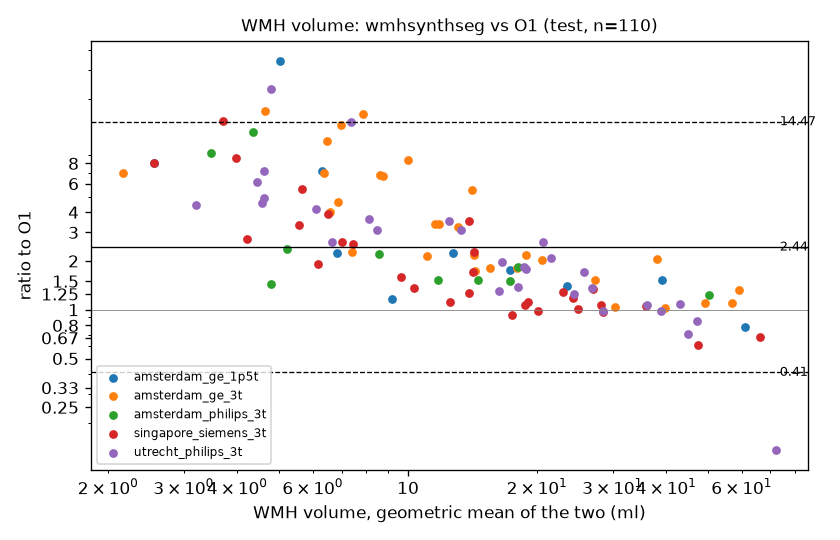
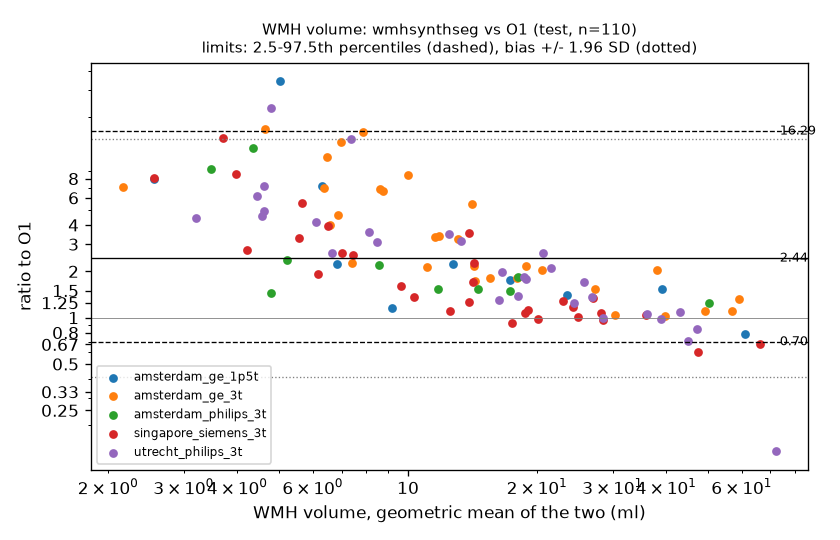
Use empirical Bland-Altman limits of agreement with bootstrap CIs
The log ratios are skewed (M1: skewness -1.44, Shapiro p < 0.001), so the
parametric limits misplaced them. Empirical 2.5-97.5th percentiles with
stratified bootstrap CIs; parametric limits kept for comparison (J-066).

diff --git a/src/wmh_multisite/biomarkers/agreement.py b/src/wmh_multisite/biomarkers/agreement.py
@@ -10,7 +10,10 @@ scanner?": a site-dependent bias would create a site effect that does not come f
         |   per subject: d = ln(rater / O1)        (volumes span 0.8 to 195 ml: errors grow with the
         |                                           volume, Spearman 0.71 in ml, -0.31 on the log scale)
         v
-    1. Bland-Altman: bias = mean(d), limits of agreement = bias +/- 1.96 SD(d), back-transformed to ratios
+    1. Bland-Altman: bias = mean(d); limits of agreement = 2.5th and 97.5th percentiles of d (empirical,
+       J-066: d is skewed, so bias +/- 1.96 SD misplaces them), with a bootstrap CI stratified by scanner;
+       the parametric limits (bias +/- 1.96 SD), skewness and Shapiro-Wilk p are kept for comparison;
+       everything back-transformed to ratios
     2. ICC(A,1), absolute agreement, on ln(value), with a bootstrap CI stratified by scanner
     3. bias per scanner (bootstrap CI, Wilcoxon against 0, Holm) + Kruskal-Wallis across scanners:
        does the bias depend on the site?
@@ -75,9 +78,24 @@ def icc_a1(x: np.ndarray) -> float:
 
 
 def bland_altman(d: np.ndarray) -> dict[str, float]:
-    """Bias and 95 % limits of agreement of the differences ``d``."""
+    """Bias and 95 % limits of agreement of the differences ``d``.
+
+    ``loa_low`` / ``loa_high``: empirical 2.5th and 97.5th percentiles, the non-parametric limits of
+    Bland and Altman (1999), valid whatever the shape of ``d``. ``loa_param_*``: bias +/- 1.96 SD, which
+    assume a normal, hence symmetric, ``d``; kept to show how far that assumption is from the data.
+    """
     bias, sd = float(d.mean()), float(d.std(ddof=1))
-    return {"bias": bias, "sd": sd, "loa_low": bias - 1.96 * sd, "loa_high": bias + 1.96 * sd}
+    low, high = np.percentile(d, [2.5, 97.5])
+    return {
+        "bias": bias,
+        "sd": sd,
+        "loa_low": float(low),
+        "loa_high": float(high),
+        "loa_param_low": bias - 1.96 * sd,
+        "loa_param_high": bias + 1.96 * sd,
+        "skewness": float(stats.skew(d)),
+        "p_shapiro": float(stats.shapiro(d).pvalue) if len(d) >= 3 else float("nan"),
+    }
 
 
 def transform(values: pd.Series, kind: str) -> pd.Series:
@@ -119,7 +137,12 @@ def agreement(
     d = tr - tref
     ba = bland_altman(d)
     pair = np.column_stack([tr, tref])
-    boot = [icc_a1(pair[idx]) for idx in stratified_indices(q.scanner.to_numpy(), n_boot, rng)]
+    boot, boot_low, boot_high = [], [], []
+    for idx in stratified_indices(q.scanner.to_numpy(), n_boot, rng):
+        boot.append(icc_a1(pair[idx]))
+        low, high = np.percentile(d[idx], [2.5, 97.5])
+        boot_low.append(low)
+        boot_high.append(high)
     alpha = (1 - level) / 2
     by_site = [d[(q.scanner == s).to_numpy()] for s in sorted(q.scanner.unique())]
     back = np.exp if kind == "log" else (lambda v: v)  # log1p: differences stay on the log scale
@@ -129,7 +152,15 @@ def agreement(
         "scale": "ratio" if kind == "log" else "difference of ln(x + 1)",
         "bias": float(back(ba["bias"])),
         "loa_low": float(back(ba["loa_low"])),
+        "loa_low_ci_low": float(back(np.quantile(boot_low, alpha))),
+        "loa_low_ci_high": float(back(np.quantile(boot_low, 1 - alpha))),
         "loa_high": float(back(ba["loa_high"])),
+        "loa_high_ci_low": float(back(np.quantile(boot_high, alpha))),
+        "loa_high_ci_high": float(back(np.quantile(boot_high, 1 - alpha))),
+        "loa_param_low": float(back(ba["loa_param_low"])),
+        "loa_param_high": float(back(ba["loa_param_high"])),
+        "skewness": ba["skewness"],
+        "p_shapiro": ba["p_shapiro"],
         "mean_diff_raw": float((q.rater - q.ref).mean()),
         "icc_a1": icc_a1(pair),
         "icc_ci_low": float(np.quantile(boot, alpha)),
@@ -183,6 +214,8 @@ def bland_altman_figure(p: pd.DataFrame, title: str, path) -> None:
     for v, style in [(ba["bias"], "-"), (ba["loa_low"], "--"), (ba["loa_high"], "--")]:
         ax.axhline(np.exp(v), color="black", ls=style, lw=0.8)
         ax.text(mean.max(), np.exp(v), f" {np.exp(v):.2f}", va="center", fontsize=8)
+    for v in (ba["loa_param_low"], ba["loa_param_high"]):  # bias +/- 1.96 SD, for comparison
+        ax.axhline(np.exp(v), color="grey", ls=":", lw=0.8)
     ax.axhline(1, color="grey", lw=0.5)
     ax.set_xscale("log")
     ax.set_yscale("log")
@@ -197,7 +230,7 @@ def bland_altman_figure(p: pd.DataFrame, title: str, path) -> None:
     ax.xaxis.set_major_formatter(matplotlib.ticker.FormatStrFormatter("%g"))
     ax.set_xlabel("WMH volume, geometric mean of the two (ml)")
     ax.set_ylabel("ratio to O1")
-    ax.set_title(title, fontsize=10)
+    ax.set_title(f"{title}\nlimits: 2.5-97.5th percentiles (dashed), bias +/- 1.96 SD (dotted)", fontsize=9)
     ax.legend(fontsize=7, loc="best")
     fig.tight_layout()
     fig.savefig(path, dpi=120)

diff --git a/tests/test_agreement.py b/tests/test_agreement.py
@@ -25,9 +25,21 @@ def test_icc_a1_hand_computation():
 def test_bland_altman():
     ba = bland_altman(np.array([0.0, 0.2, 0.4]))
     assert ba["bias"] == pytest.approx(0.2) and ba["sd"] == pytest.approx(0.2)
-    assert ba["loa_low"] == pytest.approx(0.2 - 1.96 * 0.2) and ba["loa_high"] == pytest.approx(
-        0.2 + 1.96 * 0.2
-    )
+    assert ba["loa_param_low"] == pytest.approx(0.2 - 1.96 * 0.2)
+    assert ba["loa_param_high"] == pytest.approx(0.2 + 1.96 * 0.2)
+    # empirical limits = 2.5th and 97.5th percentiles (linear interpolation)
+    assert ba["loa_low"] == pytest.approx(0.01) and ba["loa_high"] == pytest.approx(0.39)
+
+
+def test_empirical_limits_follow_a_skewed_distribution():
+    # mostly small errors and a tail of large underestimations (as M1): the parametric limits are
+    # pushed symmetrically outwards, the empirical ones stay where the data are
+    rng = np.random.default_rng(0)
+    d = np.concatenate([rng.normal(0.0, 0.05, 950), rng.normal(-1.0, 0.1, 50)])
+    ba = bland_altman(d)
+    assert ba["skewness"] < -2
+    assert ba["loa_high"] < ba["loa_param_high"]  # no long upper tail in the data
+    assert ba["loa_low"] < ba["loa_param_low"]  # the lower tail is longer than 1.96 SD
 
 
 def test_stratified_indices_keep_strata_sizes():

diff --git a/README.md b/README.md
@@ -12,7 +12,7 @@ Ce projet s'articule autour de quatre questions :
 > (1) repérer les images problématiques, (2) segmenter les lésions de façon fiable, y compris sur un scanner jamais vu,
 > (3) en tirer des biomarqueurs comparables d'un site à l'autre, et (4) retirer l'empreinte du scanner sans effacer la biologie ?
 
-Chaque choix est justifié, avec ses alternatives et ses preuves, dans le journal de décisions [`justification.md`](justification.md) (J-001 à J-065). L'avancement est suivi dans [`ROADMAP.md`](ROADMAP.md).
+Chaque choix est justifié, avec ses alternatives et ses preuves, dans le journal de décisions [`justification.md`](justification.md) (J-001 à J-066). L'avancement est suivi dans [`ROADMAP.md`](ROADMAP.md).
 
 ---
 
@@ -127,7 +127,7 @@ Avec quelques variantes :
 - **Dice** : recouvrement des voxels
 - **HD95** : distance (mm) entre les contours au 95e centile, sensible aux erreurs éloignées 
 - **AVD** : erreur relative sur le volume total 
-- **rappel lésionnel** et **F1 lésionnel** : détection lésion par lésion (composantes 27-connexes) où chaque lésion compte pour 1 quelle que soit sa taille.
+- **rappel lésionnel** et **F1 lésionnel** : détection lésion par lésion (composantes 26-connexes) où chaque lésion compte pour 1 quelle que soit sa taille.
 
 **Méthodes statistiques.**
 - **Incertitude** : intervalle de confiance à 95 % de chaque moyenne par **bootstrap percentile stratifié par scanner** (2 000 tirages avec remise, stratifiés par scanner pour conserver la composition du test).
@@ -146,28 +146,27 @@ Avec quelques variantes :
 
 ### 5. Biomarqueurs
 
-**But.** L'évaluation (section 4) juge la segmentation voxel par voxel. Une étude clinique, elle, utilise **un chiffre par patient** (« 12 ml de lésions, surtout périventriculaires »), qui alimentera ensuite un modèle pronostique. La question devient : **ce chiffre est-il juste, et est-il aussi juste sur tous les scanners ?** Un biais qui dépend du site créerait un faux effet de site dans une étude multicentrique.
+L'évaluation (section 4) juge la segmentation voxel par voxel mais une étude clinique utilise **un chiffre par patient** i.e. un biomarqueurs. Il faut alors également analyser statistiquement la fiabilité de ces valeurs. 
 
-**Biomarqueurs calculés** pour chaque sujet et chaque source de segmentation (O1, M1, M2, M3 ; O3 et O4 sur l'entraînement), après retrait des zones « autre pathologie » :
-- **volume de HSB** (ml), avec le volume exact du voxel, qui varie de 1,75 à 4,72 mm³ selon le scanner ; et en **% du volume intracrânien** (ICV, tiré de la segmentation de WMH-SynthSeg), qui ne diminue pas avec l'atrophie ;
-- **volumes périventriculaire et profond** : un voxel de HSB est périventriculaire s'il est à 10 mm ou moins des ventricules latéraux (segmentés par WMH-SynthSeg), distances en millimètres réels ;
-- **nombre de lésions** (composantes connexes 3D, comme le script officiel), dont celles d'au moins 10 mm³ pour que le compte soit comparable entre résolutions ;
-- **cartes de fréquence lésionnelle** dans l'espace MNI, par site et par source.
+On calcule les biomarqueurs suivant pour chaque sujet et chaque source de segmentation (O1, M1, M2, M3 ; O3 et O4 sur l'entraînement) après retrait des zones « autre pathologie » (label 2) :
+- **volume de HSB** : en utilisant le volume exacte d'un voxel qui varie de 1,75 à 4,72 mm³ selon le scanner
+- **% du volume intracrânien** :  ICV tiré de la segmentation de WMH-SynthSeg 
+- **volumes périventriculaire et profond** : un voxel de HSB est périventriculaire s'il est à 10 mm ou moins des ventricules latéraux (segmentés par WMH-SynthSeg)
+- **nombre de lésions** : composantes 26-connexes (comme le script officiel) d'au moins 10 mm³ pour que le compte soit comparable entre résolutions
+- **cartes de fréquence lésionnelle** : dans l'espace MNI par site et par source.
 
-Les volumes obtenus sont identiques à ceux de l'évaluation officielle à 5e-5 ml près. Valeurs de référence (O1, 170 sujets) : volume médian 11,2 ml (0,8 à 195 ml), de 0,44 % de l'ICV (Amsterdam GE 3T) à 1,18 % (Singapour), 80 à 87 % de lésions périventriculaires selon le site ([tableau A10](#a10)).
-
-**Protocole d'accord.** Chaque source est comparée à O1 : M1, M3 et M2 sur les 110 cas de test ; les experts O3 et O4 sur les 60 cas d'entraînement, qui donnent la **référence humaine**. Pour chaque sujet, on calcule **d = ln(source / O1)**. Le logarithme transforme les erreurs en rapports (« 10 % de trop »), car l'erreur absolue grandit avec le volume (corrélation de Spearman de 0,71 entre l'erreur en ml et le volume, −0,31 sur l'échelle logarithmique).
+**Protocole d'accord.** Chaque source est comparée à O1 : M1, M2 et M3 sur les 110 cas de test, les experts O3 et O4 sur les 60 cas d'entraînement, qui donnent la **référence humaine**. Pour chaque sujet, on calcule **d = ln(source / O1)**. 
 
 **Méthodes statistiques.**
-- **Bland-Altman**, la méthode de référence pour comparer deux mesures d'une même grandeur : le **biais** (moyenne des d, ramenée en rapport) dit si la source mesure trop ou trop peu en moyenne ; les **limites d'accord** (biais ± 1,96 écart type) encadrent l'erreur sur 95 % des patients pris un par un.
+- **Bland-Altman**, la méthode de référence pour comparer deux mesures d'une même grandeur : le **biais** (moyenne des d, ramenée en rapport) dit si la source mesure trop ou trop peu en moyenne ; les **limites d'accord** encadrent l'erreur sur 95 % des patients pris un par un. La formule classique (biais ± 1,96 écart type) suppose des d de loi normale, donc symétriques ; ce n'est pas le cas ici (pour M1, asymétrie −1,4, test de Shapiro-Wilk p < 0,001). On utilise donc les **limites empiriques** (2,5e et 97,5e centiles des d), avec leur intervalle de confiance par bootstrap stratifié par scanner.
 - **ICC d'accord absolu** (ICC(A,1), McGraw et Wong) sur le logarithme des volumes, avec un IC bootstrap stratifié par scanner : la part de la variabilité due aux vraies différences entre patients plutôt qu'aux erreurs de mesure (1 = accord parfait). Contrairement à une corrélation, il pénalise un écart systématique (une méthode qui doublerait tous les volumes aurait une corrélation de 1).
 - **Biais par site** : biais de chaque scanner avec son IC bootstrap et un test de Wilcoxon contre 0, corrigés par Holm sur les 116 tests ; puis un **test de Kruskal-Wallis** pour savoir si le biais diffère d'un scanner à l'autre.
 - **Cartes MNI** : chaque masque est transporté dans l'espace commun (FLAIR → T1 → MNI), puis on calcule la proportion de sujets ayant une lésion en chaque voxel. L'accord avec O1 est la **corrélation de Pearson voxel à voxel** entre les cartes (même motif spatial = 1), complétée par des cartes de différence qui montrent où se situent les écarts.
 
 **Résultats clés.**
-- **M1 mesure le volume aussi bien qu'un second expert** : rapport moyen 0,98, limites d'accord [0,62 ; 1,55], ICC 0,982, contre 0,97 [0,60 ; 1,57] et 0,981 pour O3, et 0,91 [0,55 ; 1,51] et 0,977 pour O4 ([tableau A11](#a11)). Les limites d'accord restent larges même entre experts : pour un patient donné, un second expert peut donner de 0,6 à 1,6 fois le volume de O1. C'est la marge réaliste de mesure d'un volume de HSB.
-- **M3 est juste en moyenne mais imprécis par patient** (1,18 [0,33 ; 4,14], ICC 0,81) ; **M2 surestime d'un facteur 2,4** (ICC 0,37) et n'est pas utilisable comme biomarqueur sur ce protocole ([tableau A11](#a11)).
-- **Les lésions profondes sont moins bien mesurées** que les périventriculaires : M1 les sous-estime de 13 % (0,87 [0,37 ; 2,04], ICC 0,964, contre 1,00 [0,64 ; 1,56] et 0,982). Les experts aussi (0,86 et 0,78) : O1 annote plus de lésions profondes que les autres ([tableau A11](#a11)).
+- **M1 mesure le volume aussi bien qu'un second expert** : rapport moyen 0,98, limites d'accord [0,54 ; 1,31], ICC 0,982, contre 0,97 [0,62 ; 1,47] et 0,981 pour O3, et 0,91 [0,57 ; 1,61] et 0,977 pour O4 ([tableau A11](#a11)). Son erreur est **asymétrique** : il surestime rarement de plus de 30 %, mais sous-estime fortement quelques patients (jusqu'à −46 %), ceux chez qui il manque beaucoup de petites lésions. Les limites restent larges même entre experts : pour un patient donné, un second expert peut donner de 0,6 à 1,6 fois le volume de O1. C'est la marge réaliste de mesure d'un volume de HSB.
+- **M3 est juste en moyenne mais imprécis par patient** (1,18 [0,38 ; 6,14], ICC 0,81) ; **M2 surestime d'un facteur 2,4** (ICC 0,37) et n'est pas utilisable comme biomarqueur sur ce protocole ([tableau A11](#a11)).
+- **Les lésions profondes sont moins bien mesurées** que les périventriculaires : M1 les sous-estime de 13 % (0,87 [0,32 ; 1,40], ICC 0,964, contre 1,00 [0,54 ; 1,32] et 0,982). Les experts aussi (0,86 et 0,78) : O1 annote plus de lésions profondes que les autres ([tableau A11](#a11)).
 - **Nombre de lésions** : M1 en compte environ 18 % de moins que O1 (ICC 0,89), au niveau des experts (0,85 et 0,88) ; M3, qui élimine les petites lésions, est à 0,31 ([tableau A11](#a11)).
 - **Le biais dépend du site pour M1, M3 et les deux experts** (Kruskal-Wallis p < 0,001), mais pas pour M2 (p = 0,10), dont la surestimation est forte mais uniforme. M1 sous-estime d'environ 13 % à Utrecht (0,87 [0,80 ; 0,95]) et surestime d'environ 10 % sur GE 1,5T (1,10 [1,06 ; 1,14]) ; ces écarts ne restent pas significatifs après la correction de Holm (p = 0,08 et 0,27). Les experts ont aussi des biais de site : O4 sous-estime de 20 % à Singapour (p Holm = 0,003) ([tableau A12](#a12)). Une partie du « biais de site » d'une méthode reflète donc le style de la référence sur certains sites, et, sans données démographiques, un biais associé au site peut venir de la population autant que du scanner.
 - **Les lésions sont placées aux bons endroits** : la carte de M1 corrèle à 0,995 avec celle de O1 (0,97 à 0,99 par site), contre 0,90 pour M3 et 0,88 pour M2 (0,67 sur GE 1,5T). Les cartes de différence montrent que l'excès de M2 se concentre dans un liseré le long des ventricules, et que M3 fait des faux positifs sur la ligne médiane ([tableau A13](#a13)).
@@ -234,7 +233,7 @@ notebooks/                  explorations et contrôles visuels (sorties retirée
 containers/, hpc/           Docker, Apptainer, SLURM
 tests/                      155 tests
 results/tables, figures     résultats agrégés (aucune image de patient)
-justification.md            journal des décisions (J-001 à J-065)
+justification.md            journal des décisions (J-001 à J-066)
 ```
 
 ## Limites
@@ -390,17 +389,29 @@ Lecture : le **champ de biais** est détecté (60 % au niveau 2) avant que le Di
 | **Tous** | **11,2** (0,8 à 195) | | | | **1 450** (1 110 à 1 871) |
 
 <a id="a11"></a>
-### A11. Accord des biomarqueurs avec la référence O1 : rapport moyen [limites d'accord à 95 %] (Bland-Altman sur l'échelle logarithmique) et ICC d'accord absolu
+### A11. Accord des biomarqueurs avec la référence O1 : rapport moyen [limites d'accord empiriques à 95 %] (Bland-Altman sur l'échelle logarithmique) et ICC d'accord absolu
 
 | Source (cas) | Volume total | Périventriculaire | Profond | Lésions ≥ 10 mm³ | Biais dépendant du site ? (Kruskal-Wallis, volume total) |
 |---|---|---|---|---|---|
-| **M1 nnU-Net** (test, 110) | **0,98** [0,62-1,55] ; ICC **0,982** [0,975-0,988] | 1,00 [0,64-1,56] ; 0,982 | 0,87 [0,37-2,04] ; 0,964 | 0,82 [0,56-1,21] ; 0,890 | oui (p < 0,001) |
-| M3 seuillage (test, 110) | 1,18 [0,33-4,14] ; 0,814 | 1,21 [0,42-3,52] ; 0,852 | 0,93 [0,05-16,0] ; 0,543 | 0,55 [0,19-1,58] ; 0,305 | oui (p < 0,001) |
-| M2 WMH-SynthSeg (test, 110) | 2,44 [0,41-14,5] ; 0,372 | 2,53 [0,46-14,1] ; 0,349 | 2,23 [0,14-34,6] ; 0,436 | 0,44 [0,21-0,92] ; 0,300 | non (p = 0,10) |
-| Expert O3 (entraînement, 60) | 0,97 [0,60-1,57] ; 0,981 | 0,98 [0,60-1,62] ; 0,980 | 0,86 [0,43-1,73] ; 0,969 | 0,79 [0,51-1,22] ; 0,847 | oui (p < 0,001) |
-| Expert O4 (entraînement, 60) | 0,91 [0,55-1,51] ; 0,977 | 0,94 [0,55-1,61] ; 0,975 | 0,78 [0,39-1,56] ; 0,968 | 0,80 [0,54-1,19] ; 0,877 | oui (p < 0,001) |
+| **M1 nnU-Net** (test, 110) | **0,98** [0,54-1,31] ; ICC **0,982** [0,975-0,988] | 1,00 [0,54-1,32] ; 0,982 | 0,87 [0,32-1,40] ; 0,964 | 0,82 [0,58-1,16] ; 0,890 | oui (p < 0,001) |
+| M3 seuillage (test, 110) | 1,18 [0,38-6,14] ; 0,814 | 1,21 [0,45-4,58] ; 0,852 | 0,93 [0,11-37,2] ; 0,543 | 0,55 [0,25-1,67] ; 0,305 | oui (p < 0,001) |
+| M2 WMH-SynthSeg (test, 110) | 2,44 [0,70-16,3] ; 0,372 | 2,53 [0,77-14,3] ; 0,349 | 2,23 [0,34-61,7] ; 0,436 | 0,44 [0,23-1,12] ; 0,300 | non (p = 0,10) |
+| Expert O3 (entraînement, 60) | 0,97 [0,62-1,47] ; 0,981 | 0,98 [0,61-1,49] ; 0,980 | 0,86 [0,32-1,45] ; 0,969 | 0,79 [0,48-1,14] ; 0,847 | oui (p < 0,001) |
+| Expert O4 (entraînement, 60) | 0,91 [0,57-1,61] ; 0,977 | 0,94 [0,55-1,91] ; 0,975 | 0,78 [0,36-1,08] ; 0,968 | 0,80 [0,51-1,15] ; 0,877 | oui (p < 0,001) |
 
-Rapport < 1 : la source mesure moins que O1. Les sujets sans lésion profonde (ou périventriculaire) sont exclus de ce biomarqueur ; le nombre de lésions est comparé en ln(x + 1).
+Rapport < 1 : la source mesure moins que O1. Limites d'accord : 2,5e et 97,5e centiles des d. Les sujets sans lésion profonde (ou périventriculaire) sont exclus de ce biomarqueur ; le nombre de lésions est comparé en ln(x + 1).
+
+Volume total : précision des limites d'accord (IC 95 % bootstrap stratifié par scanner) et écart à l'hypothèse de normalité de la formule classique.
+
+| Source | Limite basse [IC 95 %] | Limite haute [IC 95 %] | Formule classique (biais ± 1,96 écart type) | Asymétrie des d | Shapiro-Wilk p |
+|---|---|---|---|---|---|
+| **M1 nnU-Net** | 0,54 [0,45-0,65] | 1,31 [1,22-1,60] | [0,62 ; 1,55] | **−1,44** | < 0,001 |
+| M3 seuillage | 0,38 [0,29-0,49] | 6,14 [3,38-7,38] | [0,33 ; 4,14] | +0,65 | 0,005 |
+| M2 WMH-SynthSeg | 0,70 [0,40-0,97] | 16,3 [11,5-25,9] | [0,41 ; 14,5] | +0,50 | 0,001 |
+| Expert O3 | 0,62 [0,41-0,72] | 1,47 [1,28-2,01] | [0,60 ; 1,57] | −0,35 | 0,07 |
+| Expert O4 | 0,57 [0,41-0,70] | 1,61 [1,21-2,23] | [0,55 ; 1,51] | +0,36 | 0,004 |
+
+Pour M1, la formule classique placerait la limite haute à 1,55 alors qu'aucun patient ou presque ne dépasse 1,31 : les quelques fortes sous-estimations allongent l'écart type, que la formule répartit à tort des deux côtés.
 
 ![Bland-Altman de M1 sur le test](results/figures/bland_altman_test_resencm.png)
 

diff --git a/justification.md b/justification.md
@@ -785,6 +785,16 @@ Un seul triplet (t, e, m) pour tous les scanners, choisi par recherche sur grill
 **Constat (rédaction du README).** Les effectifs de J-051 (136 utilisables, 30 à vérifier, 4 à exclure) ne correspondent plus à `results/tables/qc_flags.csv` : les indicateurs de 4.1 ont été recalculés le 2026-10-06 avec la substance blanche **privée des HSB et d'une marge de 2 mm** autour d'elles (`qc.wmh_margin_mm`, le SNR dépendant sinon de la charge lésionnelle ; la référence « J-059 » du code et du config date d'avant l'attribution de ce numéro à l'harmonisation), sans mise à jour du journal.
 **Chiffres en vigueur (170 sujets).** **143 utilisables, 20 à vérifier, 7 à exclure** (Utrecht 41/5/4, Singapour 42/7/1, Amsterdam GE 3T 45/5/0, Amsterdam Philips 3T 7/2/1, Amsterdam GE 1,5T 8/1/1). À exclure : sub-003, sub-004, sub-009, sub-044 (Utrecht), sub-068 (Singapour), sub-151 (GE 1,5T), sub-160 (Philips). Motifs principaux : champ de biais de la FLAIR (9), SNR de la FLAIR (7), FBER (4). Validation inchangée sur le fond : Dice de M1 0,817 pour les 20 sujets de test signalés contre 0,799 (Mann-Whitney p = 0,54 ; Spearman score / Dice −0,19). Les 10 sujets des artefacts simulés (4.3) et les 10 de la robustesse (J-058), choisis avant ce recalcul, restent tous « utilisables ».
 **Précision sur J-051.** La phrase « sur les images **brutes** (N4 masquerait le défaut de biais) » décrit la première version. Le code actuel (`qc/iqm.py`) suit la convention de MRIQC : bruit et contraste (SNR, SNR de Dietrich, CNR, CJV, EFC, FBER) sur l'image **corrigée par N4** (brute / champ N4, puis x 1000 / médiane de la SB), biais (`inu_range`) mesuré sur le **champ N4** ; seuls les masques de tête et d'air sont définis sur l'image brute.
+
+---
+
+## J-066 — Limites d'accord de Bland-Altman : empiriques plutôt que paramétriques (7.4)
+2026-10-08 · Correction
+
+**Constat (question de l'utilisateur à la rédaction du README).** Les limites d'accord étaient calculées par la formule classique, biais ± 1,96 écart type des d = ln(source / O1), qui suppose des d de loi normale, donc symétriques. Vérification : ce n'est pas le cas. Pour M1, asymétrie −1,44 et Shapiro-Wilk p < 0,001 (M3 +0,65, p = 0,005 ; M2 +0,50, p = 0,001 ; O4 +0,36, p = 0,004 ; seul O3 est compatible avec la normalité, p = 0,07). M1 a une queue de fortes sous-estimations : la formule allonge l'écart type et le répartit à tort des deux côtés.
+**Décision.** `biomarkers/agreement.py` : limites d'accord **empiriques** (2,5e et 97,5e centiles des d), les limites non paramétriques recommandées par Bland et Altman (1999) quand les différences ne sont pas normales, avec leur **IC à 95 % par bootstrap stratifié par scanner** (mêmes tirages que l'IC de l'ICC). Les limites paramétriques, l'asymétrie et le p de Shapiro-Wilk restent dans le tableau, pour comparaison. Figure : limites empiriques en tirets, paramétriques en pointillés. Test sur une distribution asymétrique simulée.
+**Résultats (volume total).** M1 : [0,62 ; 1,55] devient **[0,54 ; 1,31]** (limite basse [0,45-0,65], haute [1,22-1,60]) ; O3 [0,62 ; 1,47] ; O4 [0,57 ; 1,61] ; M3 [0,38 ; 6,14] ; M2 [0,70 ; 16,3]. Biais, ICC et biais par site inchangés.
+**Lecture.** La conclusion tient : M1 reste dans la plage des experts. Elle se précise : son erreur est asymétrique, il surestime rarement de plus de 30 % mais sous-estime fortement quelques patients (jusqu'à −46 %), ceux où il manque beaucoup de petites lésions (cohérent avec son rappel lésionnel, J-042).
 ---
 
 ## Décisions en attente
